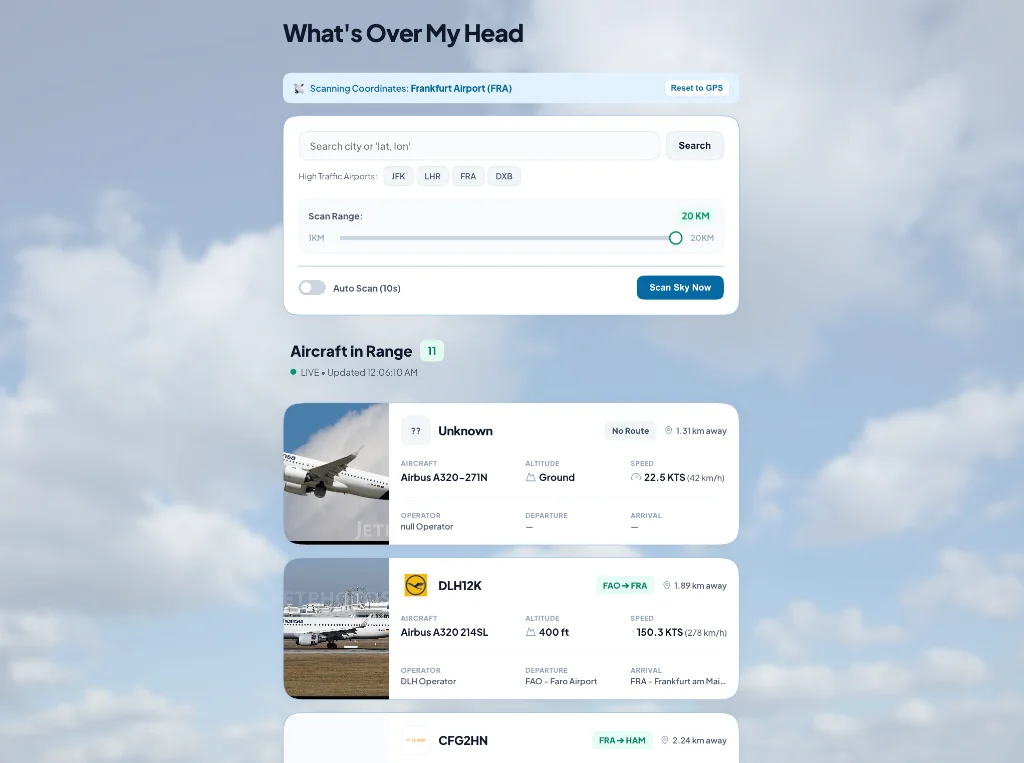
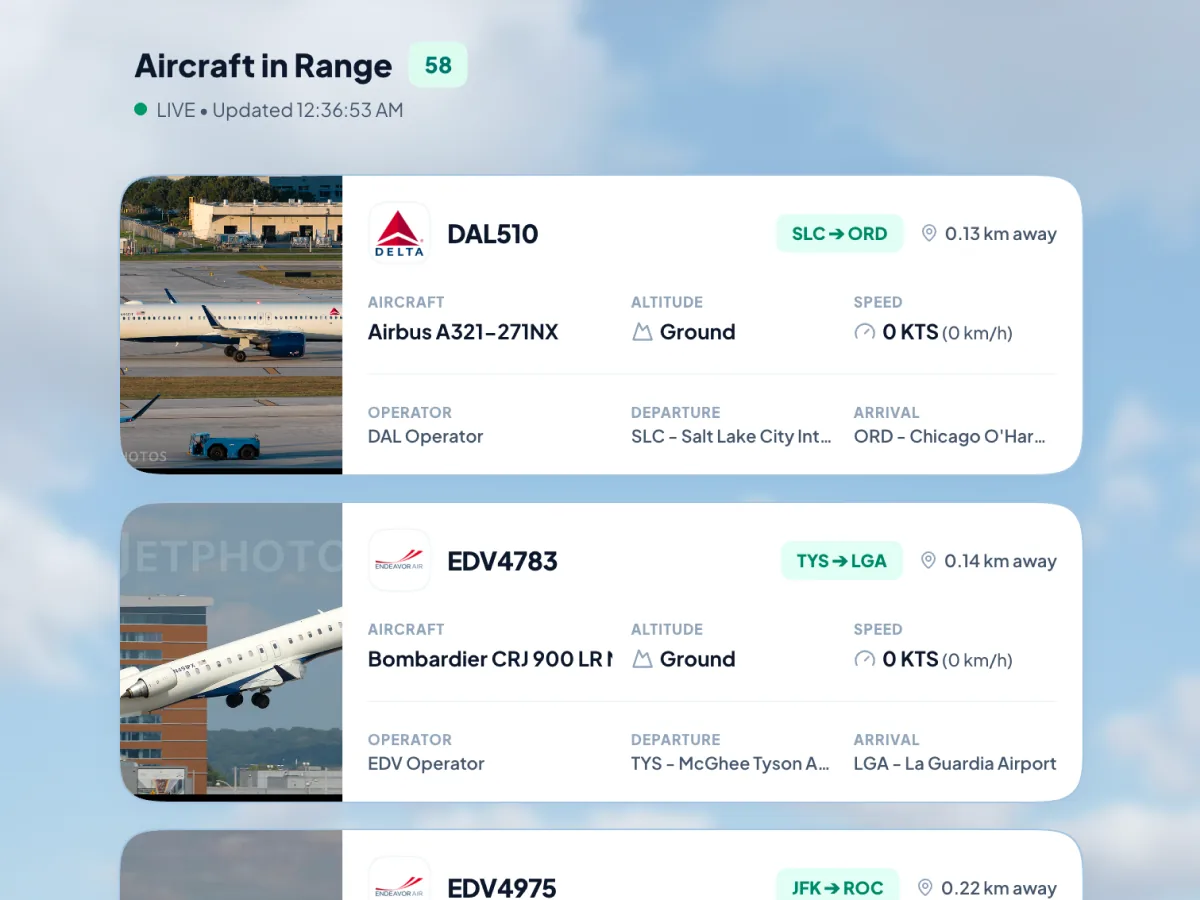
updated wip content, updated all thumbnails for case study, added bw effect for experiments cards

diff --git a/app/globals.css b/app/globals.css
@@ -627,7 +627,7 @@ flex-shrink: 0;
   width: 100%;
   height: 100%;
   object-fit: cover;
-  transition: transform 0.2s ease;
+  transition: transform 0.4s ease;
 }
 
 .project-placeholder-inner {
@@ -650,6 +650,10 @@ flex-shrink: 0;
   padding: 4px;
   /* Draws the accent stroke on the outer boundary of the frame */
   border-color: var(--accent-color);
+}
+
+.project-card:hover .project-image-inner {
+  transform: scale(1.02);
 }
 
 .project-meta-top {
@@ -889,9 +893,17 @@ html.dark .experiment-card:hover {
   text-decoration: underline;
 }
 
+.experiment-arrow {
+  color: var(--muted-color);
+  stroke: var(--muted-color);
+  transition: transform 0.3s ease, stroke 0.3s ease, color 0.3s ease;
+  flex-shrink: 0;
+}
+
 .experiment-card:hover .experiment-arrow {
   transform: translate(0.2rem, -0.2rem);
   stroke: var(--accent-color);
+  color: var(--accent-color);
 }
 
 .experiment-image-container {
@@ -908,11 +920,13 @@ html.dark .experiment-card:hover {
   height: 100%;
   object-fit: cover;
   object-position: top;
-  transition: transform 0.3s ease;
+  filter: grayscale(100%);
+  transition: transform 0.4s ease, filter 0.4s ease;
 }
 
 .experiment-card:hover .experiment-image {
   transform: scale(1.05);
+  filter: grayscale(0%);
 }
 
 .experiment-card-body {
@@ -1238,11 +1252,66 @@ html.dark .experiment-card:hover {
   justify-content: center;
   font-weight: 900;
   font-size: 2.4rem;
-  letter-spacing: 0.35em;
+  letter-spacing: 0.2em;
   text-transform: uppercase;
   padding: 3rem 1.6rem;
   background-color: #FFE600;
   text-align: center;
+  white-space: nowrap;
+}
+
+.wip-icon {
+  width: 2.4rem;
+  height: 2.4rem;
+  margin-right: 1.5rem;
+  flex-shrink: 0;
+}
+
+.wip-link {
+  color: var(--text-color);
+  text-decoration: none;
+  transition: color 0.2s ease;
+}
+
+.wip-link:hover {
+  color: var(--accent-color) !important;
+  text-decoration: underline !important;
+}
+
+@media (max-width: 768px) {
+  .wip-content {
+    font-size: 1.4rem;
+    letter-spacing: 0.16em;
+    padding: 2rem 1rem;
+  }
+
+  .wip-icon {
+    width: 1.6rem;
+    height: 1.6rem;
+    margin-right: 0.8rem;
+  }
+
+  .wip-stripe {
+    height: 1.6rem;
+  }
+}
+
+@media (max-width: 480px) {
+  .wip-content {
+    font-size: 1.1rem;
+    letter-spacing: 0.1em;
+    padding: 1.6rem 0.6rem;
+  }
+
+  .wip-icon {
+    width: 1.4rem;
+    height: 1.4rem;
+    margin-right: 0.5rem;
+  }
+
+  .wip-stripe {
+    height: 1.4rem;
+  }
 }
 
 @keyframes hazard-slide-left {

diff --git a/components/WorkInProgressBanner.js b/components/WorkInProgressBanner.js
@@ -9,16 +9,53 @@ export default function WorkInProgressBanner() {
       <div className="wip-banner">
         <div className="wip-stripe wip-stripe-top"></div>
         <div className="wip-content">
-          <svg viewBox="0 0 24 24" width="24" height="24" fill="#000000" style={{ display: 'inline-block', verticalAlign: 'middle', marginRight: '1.5rem' }}>
-            <path d="M12 2L1 21h22L12 2zm1 14h-2v-2h2v2zm0-4h-2V8h2v4z" />
-          </svg>
-          WORK IN PROGRESS
+          <div style={{ display: 'flex', flexDirection: 'column', alignItems: 'center', textAlign: 'center' }}>
+            <div style={{ display: 'flex', alignItems: 'center', gap: '1rem' }}>
+              <svg viewBox="0 0 24 24" fill="none" stroke="#000000" strokeWidth="2.5" strokeLinecap="round" strokeLinejoin="round" className="wip-icon" style={{ margin: 0 }}>
+                <rect x="3" y="11" width="18" height="11" rx="2" ry="2" />
+                <path d="M7 11V7a5 5 0 0 1 10 0v4" />
+              </svg>
+              <span>REDACTED</span>
+            </div>
+            <span style={{ fontSize: '1.2rem', fontWeight: 500, letterSpacing: '0.05em', textTransform: 'none', marginTop: '0.4rem', opacity: 0.8 }}>
+              ask nicely, I might show you
+            </span>
+          </div>
         </div>
         <div className="wip-stripe wip-stripe-bottom"></div>
       </div>
-      <div style={{ marginTop: '1.6rem', display: 'flex', justifyContent: 'space-between', fontFamily: 'var(--font-mono), monospace', fontSize: '2rem', color: 'var(--muted-color)' }}>
-        <span>Curious?</span>
-        <span>Connect to talk [<Link href="https://www.linkedin.com/in/aayushsaini1/" style={{ textDecoration: 'underline' }}>Linkedin</Link>] [<Link href="mailto:[email redacted]/" style={{ textDecoration: 'underline' }}>Email</Link>]</span>
+      <div
+        className="wip-connect-card"
+        style={{
+          position: 'relative',
+          marginTop: '3.2rem',
+          padding: '3.2rem 2.4rem',
+          display: 'flex',
+          flexDirection: 'column',
+          alignItems: 'center',
+          justifyContent: 'center',
+          textAlign: 'center',
+          gap: '1.2rem',
+          fontFamily: 'var(--font-mono), monospace',
+          backgroundColor: 'var(--container-bg-color)'
+        }}
+      >
+        {/* Accent Corner Anchors */}
+        <div style={{ position: 'absolute', top: '-1rem', left: '-1rem', color: 'var(--accent-color)', fontSize: 'var(--font-size-md)', lineHeight: 1, pointerEvents: 'none' }}>⌜</div>
+        <div style={{ position: 'absolute', top: '-1rem', right: '-1rem', color: 'var(--accent-color)', fontSize: 'var(--font-size-md)', lineHeight: 1, pointerEvents: 'none' }}>⌝</div>
+        <div style={{ position: 'absolute', bottom: '-1rem', left: '-1rem', color: 'var(--accent-color)', fontSize: 'var(--font-size-md)', lineHeight: 1, pointerEvents: 'none' }}>⌞</div>
+        <div style={{ position: 'absolute', bottom: '-1rem', right: '-1rem', color: 'var(--accent-color)', fontSize: 'var(--font-size-md)', lineHeight: 1, pointerEvents: 'none' }}>⌟</div>
+        <div>
+          <h3 style={{ fontSize: '2rem', letterSpacing: '0.2em', fontWeight: 600, color: 'var(--text-color)', margin: 0, textTransform: 'uppercase' }}>
+            Curious about this?
+          </h3>
+          <p style={{ fontSize: '1.2rem', color: 'var(--muted-color)', margin: 0 }}>
+            Let's hop on a call and talk more
+          </p>
+        </div>
+        <div style={{ display: 'flex', gap: '1.2rem', fontSize: '1.6rem', color: 'var(--muted-color)', marginTop: '0.4rem' }}>
+          <Link className="wip-link" href="https://www.linkedin.com/in/aayushsaini1/" target="_blank" rel="noopener noreferrer">[Linkedin]</Link> <Link className="wip-link" href="mailto:[email redacted]">[Email]</Link>
+        </div>
       </div>
     </div>
   );

diff --git a/components/Experiments.js b/components/Experiments.js
@@ -44,16 +44,16 @@ export default function Experiments({ data }) {
                       {item.title}
                     </h3>
                     <svg
-                      width="14"
-                      height="14"
+                      width="16"
+                      height="16"
                       viewBox="0 0 24 24"
                       fill="none"
-                      stroke="var(--muted-color)"
-                      strokeWidth="2.5"
+                      stroke="currentColor"
+                      strokeWidth="2"
                       strokeLinecap="round"
                       strokeLinejoin="round"
                       className="experiment-arrow"
-                      style={{ transition: 'transform 0.3s ease, stroke 0.3s ease', marginTop: '0.4rem' }}
+                      style={{ marginTop: '0.2rem' }}
                     >
                       <line x1="7" y1="17" x2="17" y2="7" />
                       <polyline points="7 7 17 7 17 17" />

diff --git a/content/work/josys-policy.md b/content/work/josys-policy.md
@@ -22,14 +22,50 @@
 ## 1. About Josys
 Josys is a B2B SaaS management and <span class="custom-tooltip" data-tooltip="Identity & Governance Administration">IGA</span> platform used by IT admins, <span class="custom-tooltip" data-tooltip="Managed Service Provider">MSP</span> operators, and service providers. As Josys evolved its narrative from an IT SaaS management tool to a full IGA platform, admins were increasingly expected to act on a growing volume of signals — policy-triggered approvals, anomalies, manual tasks, and health-improvement opportunities.
 
-<div class="wip-banner-placeholder"></div>
-
-<!-- ## 2. Problem Statement
+## 2. Problem Statement
+Each company have various rules and regulations and IT admins can define certain conditions basis of which the company should operate in terms of apps, license, device assignment and all.
 
 ## 3. Introducing Policies and Automations
+With Policies and auotmations you can define a policy and detect the anomaly -- who is not following the rules and basis of that you can take action or automate the actions to be taken incase of policy detecttion.
 
+
+<div class="wip-banner-placeholder"></div>
+
+<!--
 ## 4. What Changed?
+
+Earlier we had 'Access Policy' and 'Workflows' as separate modules. We realized that both work in conjunction and hence decided to combine those into a more comprehensive and powerful 'Policy and Automations' module.
+
+With this new feature you can define the automated actions to be taken while you create a policy in one single flow rather than creating a policy and then linking that policy to a workflow - this reduced back and forth.
+
+<div style="background-color: var(--container-bg-color); border-radius: 1.6rem; display: flex; justify-content: center; align-items: center;">
+  <img src="/work/josys-policy/policy-scope.webp" alt="Policy Scope" style="margin: 0; border: none; background: transparent; max-width: 100%; height: auto;" />
+</div>
+
+*Policy definition and automation*
+
+Based on how you define the policy, we have defined the sidebar steps for creating a policy.
+
+On top we have policy details as the idea is we will smartly fill everything for you and you can just review things and then customize the policy as per your preference.
+
+Below that we have Scope section which is definition of policy. Now options here will vary based on different policy category. It can have identity, app or file conditions.
+
+Then we have automation → you can define access validation - which is the way to ask employee or their manager for anything; then there is admin consent which is human in the loop - sort of IT admin’s final approval before executing actions.
+Then actions step is to define the actions that will be executed when the policy runs for an entity.
+
+<div style="background-color: var(--container-bg-color); border-radius: 1.6rem; display: flex; justify-content: center; align-items: center;">
+  <img src="/work/josys-policy/policy-scope.webp" alt="Policy Scope" style="margin: 0; border: none; background: transparent; max-width: 100%; height: auto;" />
+</div>
+
+---
+
+Here's a quick video of how you define a policy
 </br>
+"Insert a video or GIF here"
+
+</br>
+
+
 
 *Difference b/w old access policy and workflows vs this new structure of policy and automtions*
 